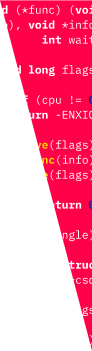
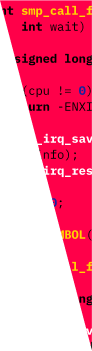
Adjust hero on contact page

diff --git a/src/pages/contact.module.scss b/src/pages/contact.module.scss
@@ -1,5 +1,5 @@
 .contact {
-  $triangule-width: rem(139px);
+  $triangule-width: rem(155.23px);
   $hero-height: rem(591px);
   &__hero, &__about-us {
     > :first-child { background-color: $color-neutral-black }
@@ -19,13 +19,16 @@
     }
     &__left {
       align-self: end;
-      padding: rem(53px) 0;
+      padding: rem(63px) 0;
       h2 { font-family: $font-tertiary }
       p {
         font-size: 1.5rem;
         line-height: rem(34px);
         strong {
+          font-family: $font-secondary;
           font-size: rem(28px);
+          line-height: rem(36px);
+          letter-spacing: none;
           &:first-child { color: $color-cyan }
           &:last-child { color: $color-pink }
         }
@@ -61,19 +64,21 @@
         top: 0;
       }
       &__koi {
-        position: relative;
+        top: 0;
+        left: $triangule-width;
+        position: absolute;
+        overflow: hidden;
         height: 100%;
         display: grid;
-        width: calc(100% - 120px);
+        width: calc(100% - ($triangule-width * 2) - 120px);
+        height: rem(591px);
+        justify-items: center;
         &__img {
-          position: absolute;
-          width: 392px;
-          align-self: end;
-          left: 50%;
-          transform: translateX(-50%);
+          margin-top: rem(84px);
+          width: rem(392px);
         }
       }
-      &__koi-mobile, &__triangle-mobile, &__clouds-mobile {
+      &__triangle-mobile, &__clouds-mobile {
         display: none;
       }
       &__content {
@@ -87,7 +92,7 @@
       display: grid;
       max-width: rem(634px);
       margin: auto;
-      padding: rem(86px) 0;
+      padding: rem(87px) 0 rem(85px) 0;
       h3 {
         color: $color-blue;
         line-height: rem(36px);
@@ -247,7 +252,7 @@
         }
       }
       &__left {
-        padding-bottom: 4rem;
+        padding-bottom: rem(62px);
         p {
           font-size: 20px;
           line-height: 30px;
@@ -276,7 +281,7 @@
           font-size: rem(20px);
           line-height: rem(30px);
           margin: 0;
-          margin-bottom: rem(10px);
+          margin-bottom: .5rem;
           strong {
             font-size: rem(28px);
             line-height: rem(36px);
@@ -299,13 +304,15 @@
           }
         }
         &__koi {
-          justify-self: center;
           position: relative;
-          width: calc(100% - 200px);
+          margin: auto;
+          justify-self: center;
+          width: calc(100% - 264px);
+          left: 0;
           &__img {
-            position: absolute;
+            position: relative;
             width: 350px;
-            align-self: end;
+            margin-top: 153px;
           }
         }
         &__triangle {
@@ -369,7 +376,7 @@
         }
       }
       &__left {
-        padding: rem(40px) 0;
+        padding: rem(41px) 0 rem(40px) 0;
         p {
           width: 100%;
           max-width: none;
@@ -383,22 +390,37 @@
         }
       }
       &__right {
-        grid-template-columns: 1fr 92px 64px;
         overflow: hidden;
         position: relative;
         min-height: 350px;
         height: 350px;
         > div:first-child { display: none }
-        &__koi-mobile {
-          align-self: end;
-          margin-left: 1.5rem;
-          justify-self: center;
+        &__koi {
+          margin: 0;
+          justify-self: start;
+          z-index: 2;
+          position: relative;
+          width: calc(100% - 92px - 64px);
+          overflow: visible;
+          &__img {
+            position: absolute;
+            width: 202px;
+            height: 376.7px;
+            margin: 44px 0 0 26px;
+          }
         }
-        &__koi, &__clouds, &__triangle {
+        &__clouds, &__triangle {
           display: none;
         }
-        &__koi-mobile, &__triangle-mobile, &__clouds-mobile {
+        &__triangle-mobile, &__clouds-mobile {
           display: grid;
+          position: absolute;
+        }
+        &__triangle-mobile {
+          right: rem(64px);
+        }
+        &__clouds-mobile {
+          right: 0;
         }
       }
     }

diff --git a/src/pages/contact.js b/src/pages/contact.js
@@ -41,7 +41,6 @@ export default function ContactPage() {
               <div className={styles.contact__hero__right__koi}>
                 <img src="/koi-swimming.png" alt="koi-swimming" className={styles.contact__hero__right__koi__img}/>
               </div>
-              <img src="/koi-swimming-mobile.png" alt="koi-swimming-mobile" className={styles['contact__hero__right__koi-mobile']}/>
               <img src="/triangle/red/triangle.png" alt="triangle" className={styles.contact__hero__right__triangle}/>
               <img src="/triangle/red/triangle--small.png" alt="triangle" className={styles['contact__hero__right__triangle-mobile']}/>
               <img src="/clouds--large.png" alt="clouds--large" className={styles.contact__hero__right__clouds}/>
